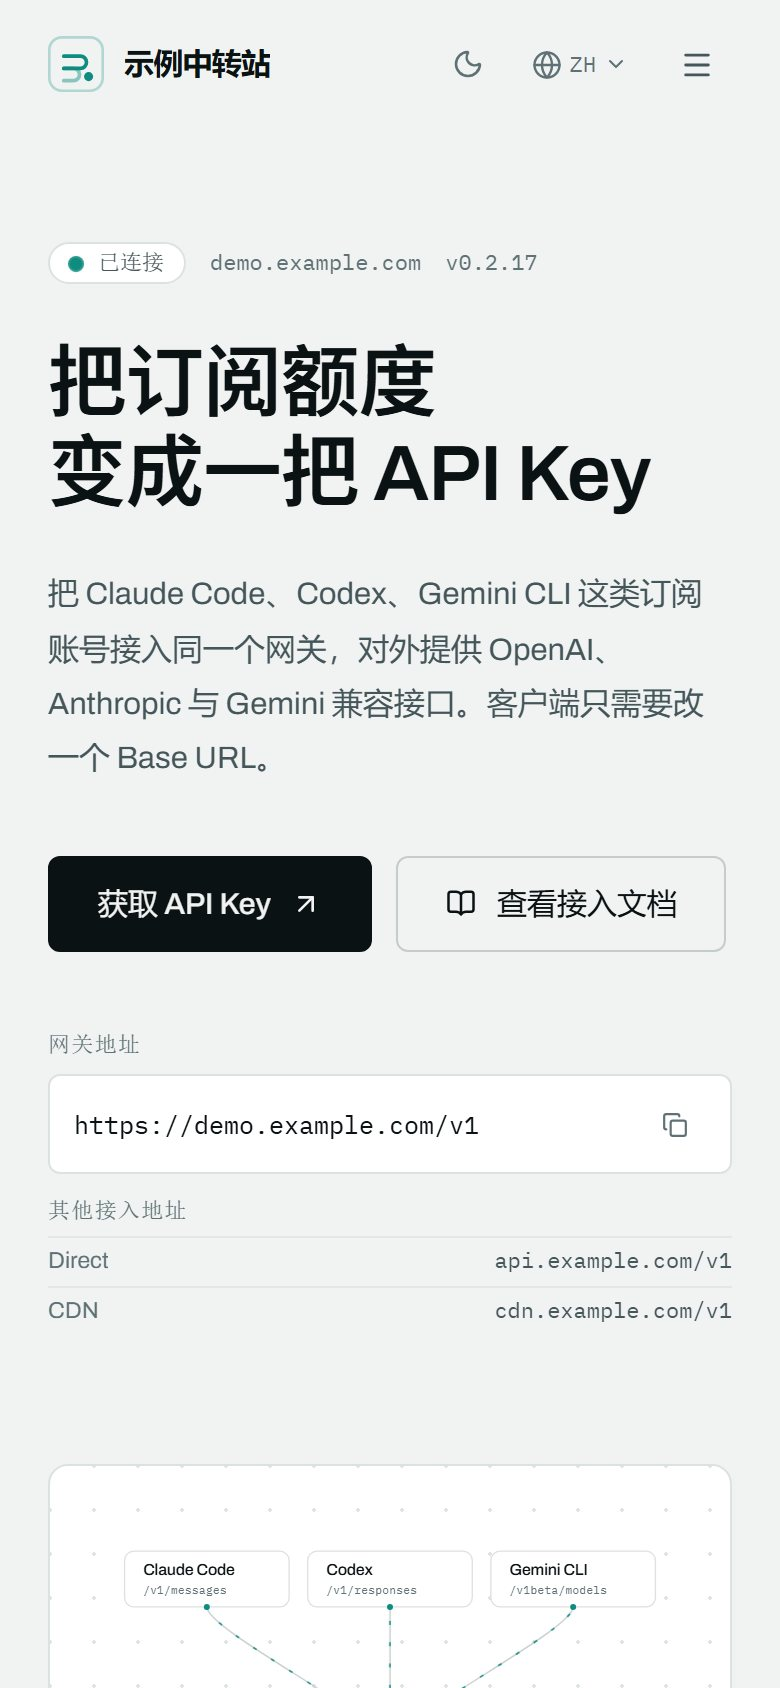
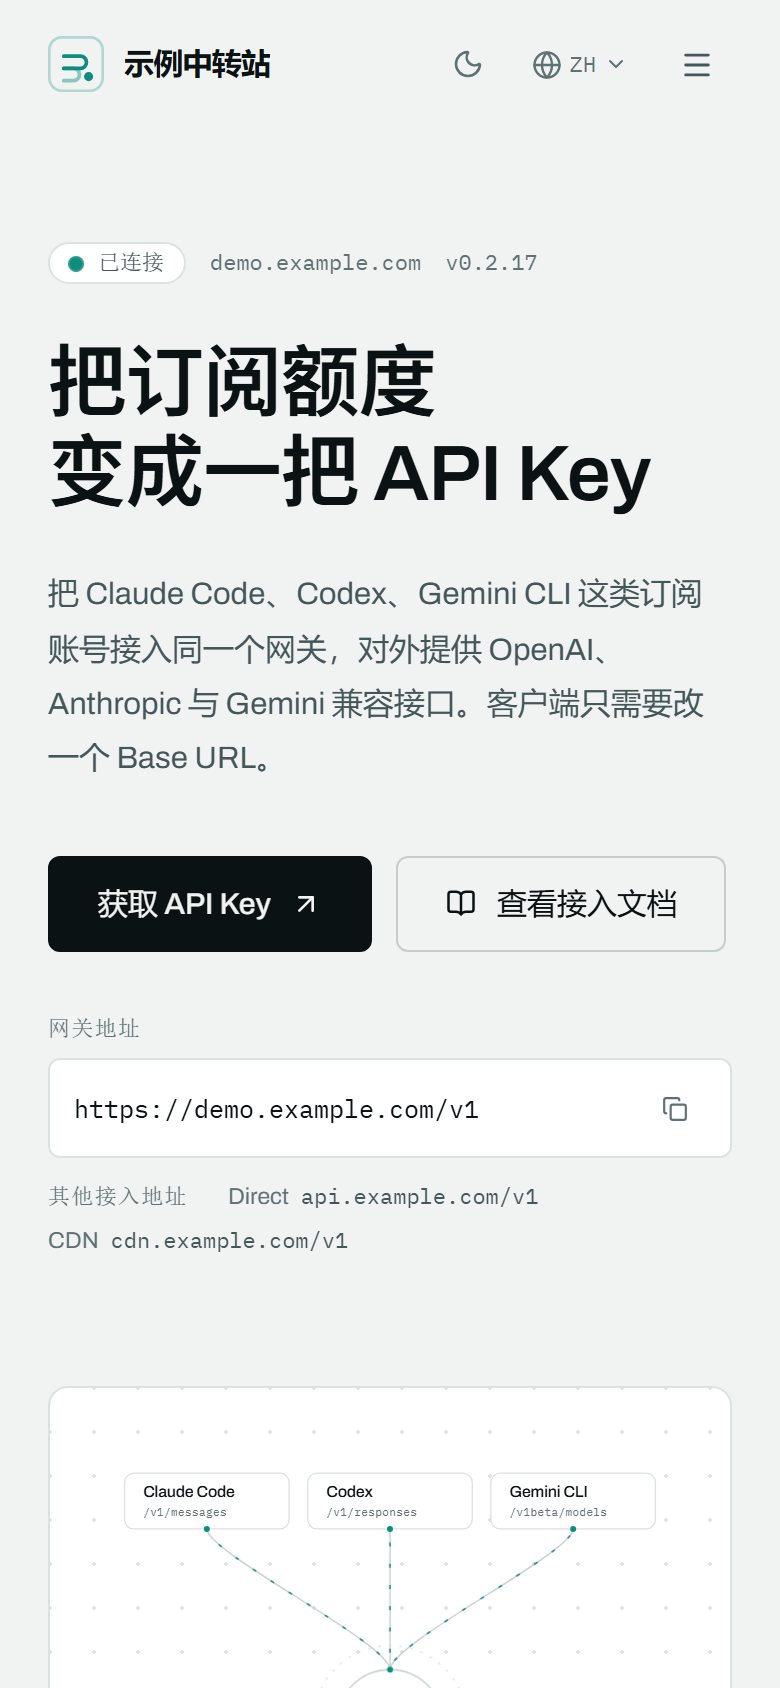
style(hero): keep the specification strip above the fold
Alternates now sit on one wrapping line instead of a stacked ruled table,
and the hero's lower padding is tighter by one step; on a 900px viewport
the strip lands at 825px instead of 886px.

diff --git a/src/components/sections/Hero.tsx b/src/components/sections/Hero.tsx
@@ -60,7 +60,7 @@ export default function Hero() {
   return (
     <div className="relative">
       <Container>
-        <div className="grid grid-cols-1 items-center gap-16 pt-14 pb-16 sm:pt-16 lg:grid-cols-12 lg:gap-12 lg:pt-20 lg:pb-24">
+        <div className="grid grid-cols-1 items-center gap-16 pt-14 pb-16 sm:pt-16 lg:grid-cols-12 lg:gap-12 lg:pt-20 lg:pb-14">
           {/* ---------------------------------------------------------- */}
           {/* Specification column                                        */}
           {/* ---------------------------------------------------------- */}
@@ -124,7 +124,7 @@ export default function Hero() {
               </ButtonLink>
             </div>
 
-            <div className="rise mt-10" style={{ animationDelay: '240ms' }}>
+            <div className="rise mt-8" style={{ animationDelay: '240ms' }}>
               {base ? (
                 <div className="max-w-[420px]">
                   <div className="mb-2 text-mono-label">{t.hero.endpointLabel}</div>
@@ -134,22 +134,23 @@ export default function Hero() {
                     copiedLabel={t.hero.endpointCopied}
                   />
                   {alternates.length > 0 ? (
-                    <dl className="mt-3">
-                      <div className="mb-1.5 text-mono-label">{t.hero.altEndpoints}</div>
+                    // Kept on one wrapping line rather than a stacked table: two
+                    // or three alternates do not justify ~70px of ruled rows in
+                    // the first screen, and the height they cost pushed the
+                    // specification strip below the fold on a 900px viewport.
+                    <div className="mt-3 flex flex-wrap items-baseline gap-x-5 gap-y-1.5">
+                      <span className="text-mono-label">{t.hero.altEndpoints}</span>
                       {alternates.map((entry) => (
-                        <div
-                          key={entry.endpoint}
-                          className="flex items-baseline justify-between gap-4 border-t border-line/70 py-1"
-                        >
-                          <dt className="truncate text-[11.5px] leading-snug text-ink-3">
+                        <span key={entry.endpoint} className="flex items-baseline gap-1.5">
+                          <span className="text-[11.5px] leading-snug text-ink-3">
                             {entry.name || entry.endpoint}
-                          </dt>
-                          <dd className="shrink-0 font-mono text-[11px] leading-snug text-ink-2">
+                          </span>
+                          <span className="font-mono text-[11px] leading-snug text-ink-2">
                             {entry.endpoint.replace(/^https?:\/\//, '')}
-                          </dd>
-                        </div>
+                          </span>
+                        </span>
                       ))}
-                    </dl>
+                    </div>
                   ) : null}
                 </div>
               ) : (
@@ -185,7 +186,7 @@ export default function Hero() {
             else, set as a footer rule under both columns so the hero reads as a
             finished sheet rather than a headline with a diagram beside it. */}
         <dl
-          className="rise mt-14 grid grid-cols-2 gap-y-7 border-t border-line pt-7 sm:grid-cols-4"
+          className="rise mt-10 grid grid-cols-2 gap-y-7 border-t border-line pt-7 sm:grid-cols-4"
           style={{ animationDelay: '300ms' }}
         >
           {[
